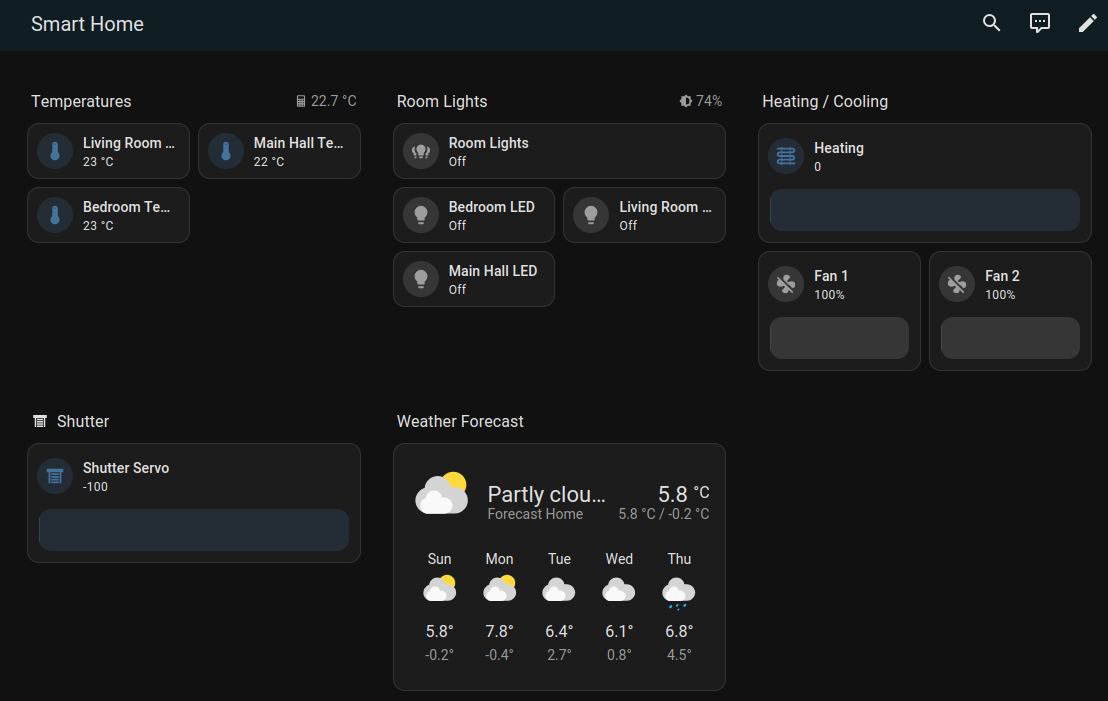
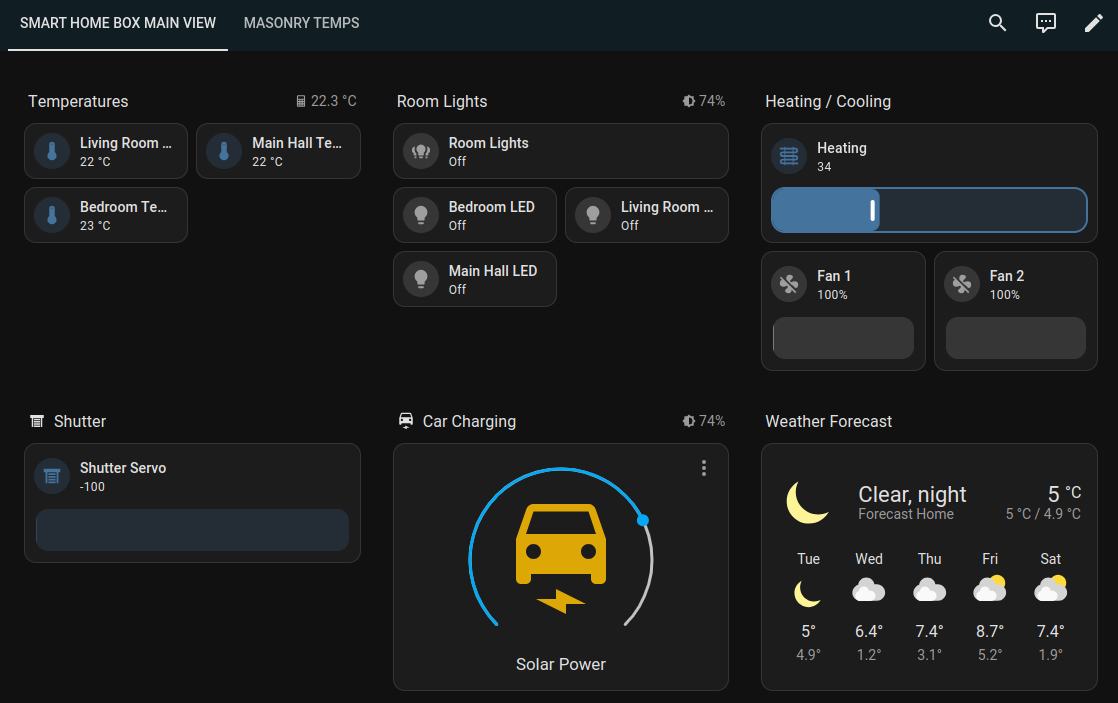
impl automation

diff --git a/doc/thesis/content/implementation.tex b/doc/thesis/content/implementation.tex
@@ -228,8 +228,8 @@ Multiple dashboards can be created in Home Assistant to control and show differe
   \label{fig:HAcustomDashboard}
 \end{figure}
 
-On the default dashboard, all areas, device controls and readings, integrations are shown as a whole, which can be ideal for a typical home environment with multiple devices, but not for the project with basically a single device and its many entities. Therefore another dashboard with a sections type view was created, which is shown on \refstruc{fig:HAcustomDashboard}. Multiple sections were created for the various types of controls (eg. lights, fans) and sensors (room temperatures), which were grouped together by the types of entities. Additional extra entities were added two sections for display: the average temperature of the three rooms to the "Temperatures" section and the LDR sensor's value to the "Room Lights" section.
-% maybe area?
+On the default dashboard, all areas, device controls and readings, integrations are shown as a whole, which can be ideal for a typical home environment with multiple devices, but not for the project with basically a single device and its many entities. Therefore another dashboard with a sections type view was created, which is shown on \refstruc{fig:HAcustomDashboard}. Multiple sections were created for the various types of controls (eg. lights, fans) and sensors (room temperatures), which were grouped together by the types of entities. Additional extra entities were added two sections for display: the average temperature of the three rooms to the "Temperatures" section and the LDR sensor's value to the "Room Lights" section. The Car Charging section mimicks electric car charging with solar panels (the value of the LDR): the set brightness of the automated LED is used as the value for display, click events were disabled to make it read-only (from this dashboard).
+% maybe areas, labels, zones(osm)?
 
 A masonry type view was also added to the dashboard, which is shown on \refstruc{fig:HAmasonryDashboard}. When multiple views are present for a dashboard, a tab strip is shown to select between them, as shown on the screenshot. On the masonry view, added cards are sorted in columns based on their size, three equal sized historical graphs were added of the room temperatures.
 
@@ -248,7 +248,28 @@ Contrary to expectations, simultaneous use of the the Internet-less Wi-Fi networ
 
 \subsection{Automations}
 
-TODO eg. car charging led
+To make the life of its users easier and more comfortable, Home Assistant offers automations to run specific tasks. An automation comprises of three parts: triggers (when it runs), conditions (optional, only run if these conditions are met) and actions (what actions to perform). \cite{HAAutomationBasics} Besides basic automations, there are further features closely related to them: scenes can be used to set a group of entities to a specified state, scripts can contain multiple actions and blueprints can be used to specify a generic automation framework, which can be used as a common basis for multiple automations with exactly specified entities.
+
+During Project Laboratory, one feature that the model box had is the ability to show "solar power" by changing the brightness of the LED put inside a toy car based on the readings of the LDR. This was possible to replicate in Home Assistant too, with the use of an automation. Two kinds of triggers were tried for detecting when the automation should run: the first was using "Brightness Sensor voltage change", however even with a very small duration specified (1-5 seconds) between 0 \% and 100\% set as the voltage percent range, the automation wasn't triggered frequently enough, only about once a minute. Therefore an other trigger was used: a periodic interval of 5 seconds, which works reliably and is shown on \refstruc{fig:HAautomationTrigger}.
+
+\begin{figure}[!ht]
+  \centering
+  \includegraphics[width=110mm, keepaspectratio]{figures/homeassistant_automation_trigger.png}
+  \caption{Home Assistant automation trigger}
+  \label{fig:HAautomationTrigger}
+\end{figure}
+
+The action needed to accomplish a simple task: set the brightness value of the car charging LED, based on the reading of the LDR. This was possible to be defined via the YAML editor, also shown in \refstruc{lst:HAautomationAction}, as the visual editor would have only allowed a constant number to be set as brightness. For action, light.turn\_on was specified, that turns on the specified target light entity (which is light.car\_carging\_led, if it isn't on already) and a brightness\_pct data key is also specified, which tells light.turn\_on what the target light's brightness should be. This key is defined from the value of a template: states() retrieves the value of the LDR reading, which is in the form of an integer between 0 and 100.% todo write about {{ }}
+
+\begin{lstlisting}[language=,caption=Home Assistant automation action for setting LED brightness based on LDR,label=lst:HAautomationAction]
+action: light.turn_on
+metadata: {}
+data:
+  brightness_pct: "{{ states('sensor.brightness_sensor') }}"
+target:
+  entity_id: light.car_carging_led  
+\end{lstlisting}
+% maybe auto slider
 
 \subsection{Voice assistant}
 

diff --git a/doc/thesis/thesis.tex b/doc/thesis/thesis.tex
@@ -39,6 +39,14 @@
 % Settings for English documents
 \input{include/thesis-en}
 
+
+% \usepackage{parskip}
+% \setlength{\parindent}{0pt} 
+% \setlength{\parskip}{100pt}
+% \addtolength{\parskip}{10pt}
+% \renewcommand{\baselinestretch}{1.0}
+% \everypar{\vspace{100pt}}
+
 \input{include/preamble}
 
 %--------------------------------------------------------------------------------------
